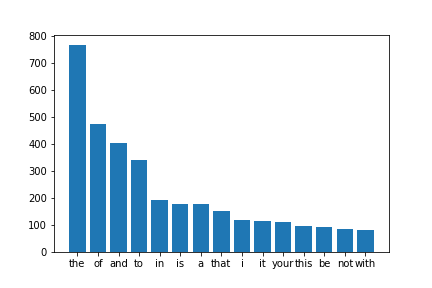
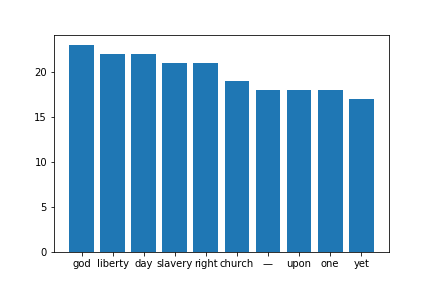
variable hierarchy selection

diff --git a/main.py b/main.py
@@ -95,7 +95,7 @@ dict2 = dict((k, dict1[k]) for k in filtered_words if k in filtered_words)
 # Resort in list
 # Reconvert to dictionary
 
-def valueSelection(dictionary, length): # length is length of highest consecutive value vector
+def valueSelection(dictionary, length, startindex = 0): # length is length of highest consecutive value vector
     
     # Test input
     lengthDict = len(dictionary)
@@ -108,14 +108,14 @@ def valueSelection(dictionary, length): # length is length of highest consecutiv
         items.reverse()   
         itemsOut = [(k, v) for v, k in items]
     
-        highest = itemsOut[0:length]
+        highest = itemsOut[startindex:startindex + length]
         dd = dict(highest)
         wanted_keys = dd.keys()
         dictshow = dict((k, d[k]) for k in wanted_keys if k in d)
 
         return dictshow;
     
-dictshow = valueSelection(dictionary = dict2, length = 10)
+dictshow = valueSelection(dictionary = dict2, length = 10, startindex = 10)
 
 
 
